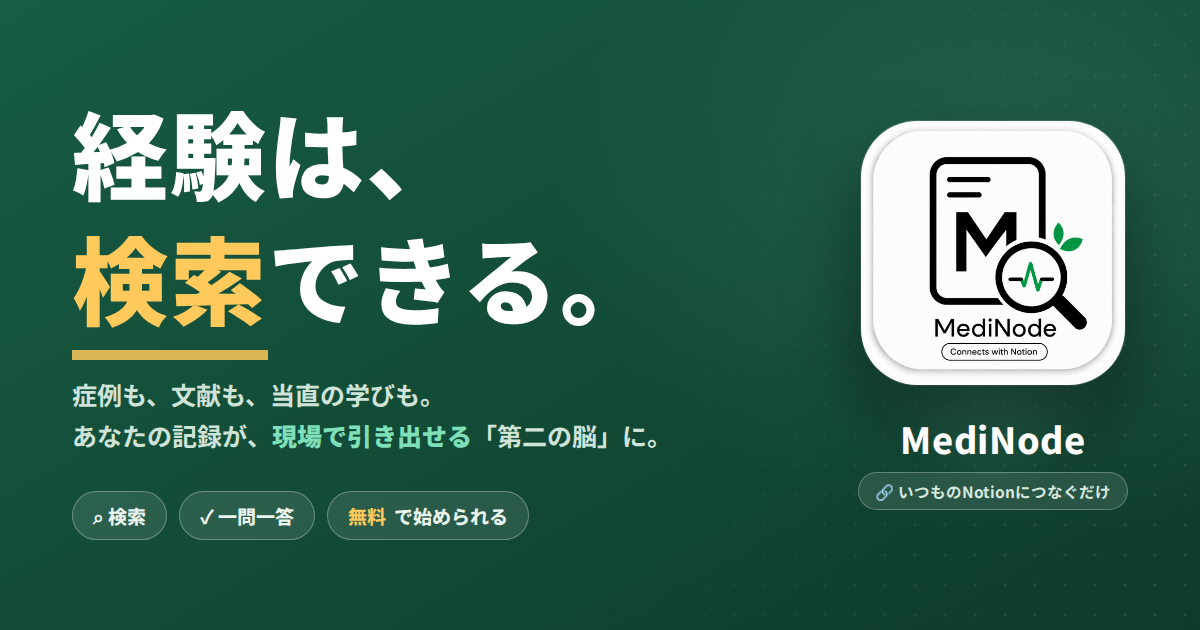
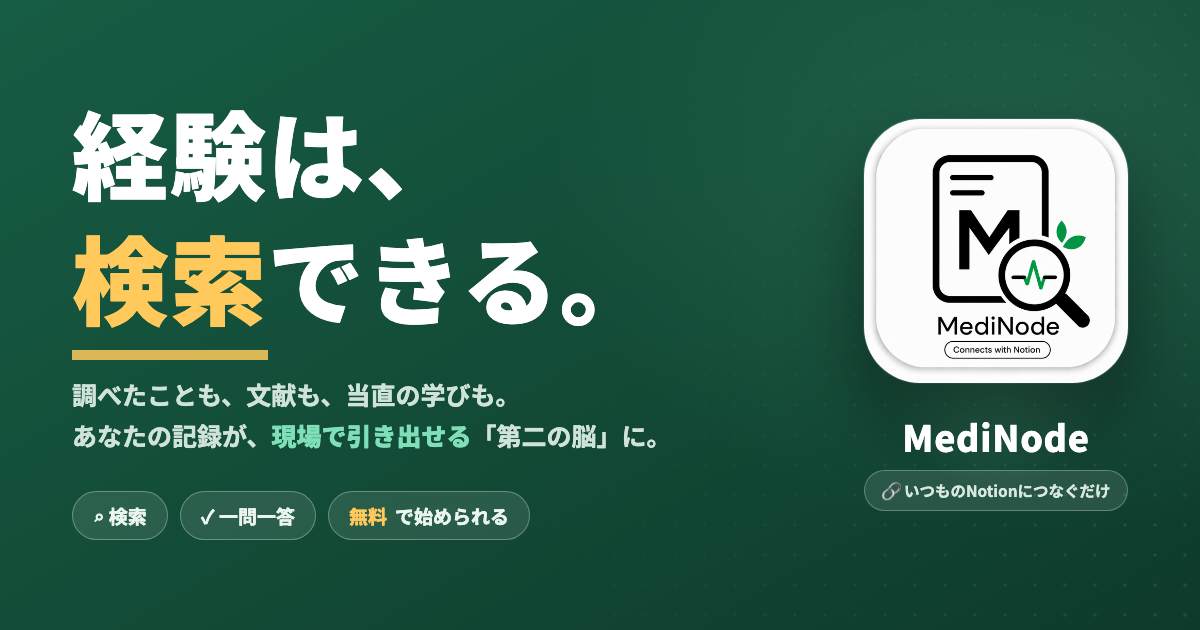
copy: 「症例も」→「調べたことも」に修正（症例記録そのものは検索対象でないため）
- index: meta/og/twitter説明・ヒーローリード・最終CTA帯・連携図を修正
- ogp.html のサブコピーを修正し assets/ogp.png を再生成
- 全ページの og:image/twitter:image を ?v=3 に更新（Xカードキャッシュ更新）

diff --git a/index.html b/index.html
@@ -4,22 +4,22 @@
 <meta charset="UTF-8">
 <meta name="viewport" content="width=device-width, initial-scale=1.0">
 <title>MediNode｜経験は、検索できる。</title>
-<meta name="description" content="症例も、文献も、当直の学びも。Notionに書いたあなたの記録が、現場で引き出せる「第二の脳」に。医療者のための知識検索アプリMediNode。検索と一問一答クイズ、無料ではじめられます。">
+<meta name="description" content="調べたことも、文献も、当直の学びも。Notionに書いたあなたの記録が、現場で引き出せる「第二の脳」に。医療者のための知識検索アプリMediNode。検索と一問一答クイズ、無料ではじめられます。">
 <meta name="theme-color" content="#196b4f">
 <link rel="icon" href="assets/icon-192.png">
 <link rel="apple-touch-icon" href="assets/icon-192.png">
 <meta property="og:type" content="website">
 <meta property="og:site_name" content="MediNode">
 <meta property="og:title" content="MediNode｜経験は、検索できる。">
-<meta property="og:description" content="症例も、文献も、当直の学びも。あなたの記録が、現場で引き出せる「第二の脳」に。医療者のための知識検索アプリ。">
-<meta property="og:image" content="https://medinode-lp.vercel.app/assets/ogp.png?v=2">
+<meta property="og:description" content="調べたことも、文献も、当直の学びも。あなたの記録が、現場で引き出せる「第二の脳」に。医療者のための知識検索アプリ。">
+<meta property="og:image" content="https://medinode-lp.vercel.app/assets/ogp.png?v=3">
 <meta property="og:image:width" content="1200">
 <meta property="og:image:height" content="630">
 <meta property="og:url" content="https://medinode-lp.vercel.app/">
 <meta name="twitter:card" content="summary_large_image">
 <meta name="twitter:title" content="MediNode｜経験は、検索できる。">
-<meta name="twitter:description" content="症例も、文献も、当直の学びも。あなたの記録が、現場で引き出せる「第二の脳」に。医療者のための知識検索アプリ。">
-<meta name="twitter:image" content="https://medinode-lp.vercel.app/assets/ogp.png?v=2">
+<meta name="twitter:description" content="調べたことも、文献も、当直の学びも。あなたの記録が、現場で引き出せる「第二の脳」に。医療者のための知識検索アプリ。">
+<meta name="twitter:image" content="https://medinode-lp.vercel.app/assets/ogp.png?v=3">
 <link rel="preconnect" href="https://fonts.googleapis.com">
 <link rel="preconnect" href="https://fonts.gstatic.com" crossorigin>
 <link href="https://fonts.googleapis.com/css2?family=Inter:wght@400;500;600;700;800&family=Noto+Sans+JP:wght@400;500;700;800&display=swap" rel="stylesheet">
@@ -505,7 +505,7 @@
     <div>
       <span class="eyebrow"><svg class="icn"><use href="#i-steth"/></svg><span>医療者のための知識アプリ・公開中</span></span>
       <h1>経験は、<br><span class="hl">検索</span>できる。</h1>
-      <p class="lead">症例も、文献も、当直の学びも。いつものNotionに書いたあなたの記録が、<b>現場で引き出せる</b><span class="nobr">「第二の脳」</span>に変わります。入力し直す手間はありません。</p>
+      <p class="lead">調べたことも、文献も、当直の学びも。いつものNotionに書いたあなたの記録が、<b>現場で引き出せる</b><span class="nobr">「第二の脳」</span>に変わります。入力し直す手間はありません。</p>
       <div class="hero-actions">
         <a class="btn btn-primary btn-arrow" href="https://medical-search-public.vercel.app/" target="_blank" rel="noopener">今すぐ体験する（無料）</a>
         <a class="btn btn-ghost" href="setup.html">自分のNotionをつなぐ</a>
@@ -617,7 +617,7 @@
       <div class="flow-step reveal"><div class="num">3</div><h3>そのままクイズに</h3><p>ためたナレッジが、シャッフル出題の一問一答に。集めた知識が、自分専用の問題集になります。</p></div>
     </div>
     <div class="sync reveal" aria-label="Notionに書くと、MediNodeに反映される流れ">
-      <div class="sync-node"><div class="tile t-green"><svg class="icn"><use href="#i-pen"/></svg></div><h4>いつものNotion</h4><p>症例・文献・メモを書く</p></div>
+      <div class="sync-node"><div class="tile t-green"><svg class="icn"><use href="#i-pen"/></svg></div><h4>いつものNotion</h4><p>調べたこと・文献・メモを書く</p></div>
       <div class="sync-pipe"><span class="pipe-label">繋ぐだけ</span></div>
       <div class="sync-node"><div class="tile t-teal"><svg class="icn"><use href="#i-search"/></svg></div><h4>MediNode</h4><p>検索・新着・クイズに変わる</p></div>
     </div>
@@ -930,7 +930,7 @@
 <section class="section cta-band" id="finalCta">
   <div class="wrap">
     <h2 class="reveal">経験は、<span style="color:#ffc95c">検索</span>できる。</h2>
-    <p class="reveal">症例も、文献も、当直の学びも。メールアドレスひとつで、まず3日間の体験からどうぞ。</p>
+    <p class="reveal">調べたことも、文献も、当直の学びも。メールアドレスひとつで、まず3日間の体験からどうぞ。</p>
     <a class="btn btn-primary btn-arrow reveal" href="https://medical-search-public.vercel.app/" target="_blank" rel="noopener">今すぐ体験する（無料）</a>
     <small class="reveal">医療者全般向け・スマホでもPCでも使えます</small>
   </div>

diff --git a/premium.html b/premium.html
@@ -10,14 +10,14 @@
 <meta property="og:site_name" content="MediNode">
 <meta property="og:title" content="プレミアム｜MediNode">
 <meta property="og:description" content="救急・集中治療の専門医がまとめた医療ナレッジを、自分のNotionと同じ画面で。専門医が『自分はこうする』まで書いた「集中治療医の実践」つき。">
-<meta property="og:image" content="https://medinode-lp.vercel.app/assets/ogp.png?v=2">
+<meta property="og:image" content="https://medinode-lp.vercel.app/assets/ogp.png?v=3">
 <meta property="og:image:width" content="1200">
 <meta property="og:image:height" content="630">
 <meta property="og:url" content="https://medinode-lp.vercel.app/premium.html">
 <meta name="twitter:card" content="summary_large_image">
 <meta name="twitter:title" content="プレミアム｜MediNode">
 <meta name="twitter:description" content="救急・集中治療の専門医がまとめた医療ナレッジを、自分のNotionと同じ画面で。専門医が『自分はこうする』まで書いた「集中治療医の実践」つき。">
-<meta name="twitter:image" content="https://medinode-lp.vercel.app/assets/ogp.png?v=2">
+<meta name="twitter:image" content="https://medinode-lp.vercel.app/assets/ogp.png?v=3">
 <link rel="icon" href="assets/icon-192.png">
 <link rel="apple-touch-icon" href="assets/icon-192.png">
 <link rel="preconnect" href="https://fonts.googleapis.com">

diff --git a/coming-soon.html b/coming-soon.html
@@ -12,14 +12,14 @@
 <meta property="og:site_name" content="MediNode">
 <meta property="og:title" content="MediNode｜公開しました">
 <meta property="og:description" content="普段のNotionが、そのまま検索DBと一問一答になる医療者向けアプリ。無料ではじめられます。">
-<meta property="og:image" content="https://medinode-lp.vercel.app/assets/ogp.png?v=2">
+<meta property="og:image" content="https://medinode-lp.vercel.app/assets/ogp.png?v=3">
 <meta property="og:image:width" content="1200">
 <meta property="og:image:height" content="630">
 <meta property="og:url" content="https://medinode-lp.vercel.app/coming-soon.html">
 <meta name="twitter:card" content="summary_large_image">
 <meta name="twitter:title" content="MediNode｜公開しました">
 <meta name="twitter:description" content="普段のNotionが、そのまま検索DBと一問一答になる医療者向けアプリ。無料ではじめられます。">
-<meta name="twitter:image" content="https://medinode-lp.vercel.app/assets/ogp.png?v=2">
+<meta name="twitter:image" content="https://medinode-lp.vercel.app/assets/ogp.png?v=3">
 <link rel="preconnect" href="https://fonts.googleapis.com">
 <link rel="preconnect" href="https://fonts.gstatic.com" crossorigin>
 <link href="https://fonts.googleapis.com/css2?family=Inter:wght@400;500;600;700;800&family=Noto+Sans+JP:wght@400;500;700;800&display=swap" rel="stylesheet">

diff --git a/notion.html b/notion.html
@@ -10,14 +10,14 @@
 <meta property="og:site_name" content="MediNode">
 <meta property="og:title" content="Notionの準備ガイド｜MediNode">
 <meta property="og:description" content="テンプレで始めるか、いまのNotion DBをそのまま繋ぐか。Notion側の準備だけを、初めての方向けに。">
-<meta property="og:image" content="https://medinode-lp.vercel.app/assets/ogp.png?v=2">
+<meta property="og:image" content="https://medinode-lp.vercel.app/assets/ogp.png?v=3">
 <meta property="og:image:width" content="1200">
 <meta property="og:image:height" content="630">
 <meta property="og:url" content="https://medinode-lp.vercel.app/notion.html">
 <meta name="twitter:card" content="summary_large_image">
 <meta name="twitter:title" content="Notionの準備ガイド｜MediNode">
 <meta name="twitter:description" content="テンプレで始めるか、いまのNotion DBをそのまま繋ぐか。Notion側の準備だけを、初めての方向けに。">
-<meta name="twitter:image" content="https://medinode-lp.vercel.app/assets/ogp.png?v=2">
+<meta name="twitter:image" content="https://medinode-lp.vercel.app/assets/ogp.png?v=3">
 <link rel="icon" href="assets/icon-192.png">
 <link rel="apple-touch-icon" href="assets/icon-192.png">
 <link rel="preconnect" href="https://fonts.googleapis.com">

diff --git a/setup.html b/setup.html
@@ -10,14 +10,14 @@
 <meta property="og:site_name" content="MediNode">
 <meta property="og:title" content="セットアップ手順｜MediNode">
 <meta property="og:description" content="Notionもトークンも、はじめてで大丈夫。実際の画面つきで、迷わず設定できます。">
-<meta property="og:image" content="https://medinode-lp.vercel.app/assets/ogp.png?v=2">
+<meta property="og:image" content="https://medinode-lp.vercel.app/assets/ogp.png?v=3">
 <meta property="og:image:width" content="1200">
 <meta property="og:image:height" content="630">
 <meta property="og:url" content="https://medinode-lp.vercel.app/setup.html">
 <meta name="twitter:card" content="summary_large_image">
 <meta name="twitter:title" content="セットアップ手順｜MediNode">
 <meta name="twitter:description" content="Notionもトークンも、はじめてで大丈夫。実際の画面つきで、迷わず設定できます。">
-<meta name="twitter:image" content="https://medinode-lp.vercel.app/assets/ogp.png?v=2">
+<meta name="twitter:image" content="https://medinode-lp.vercel.app/assets/ogp.png?v=3">
 <link rel="icon" href="assets/icon-192.png">
 <link rel="apple-touch-icon" href="assets/icon-192.png">
 <link rel="preconnect" href="https://fonts.googleapis.com">

diff --git a/database.html b/database.html
@@ -10,14 +10,14 @@
 <meta property="og:site_name" content="MediNode">
 <meta property="og:title" content="DB連携の仕組み｜MediNode">
 <meta property="og:description" content="2つのNotion DBが知識の土台。テンプレを複製して繋ぐだけ。">
-<meta property="og:image" content="https://medinode-lp.vercel.app/assets/ogp.png?v=2">
+<meta property="og:image" content="https://medinode-lp.vercel.app/assets/ogp.png?v=3">
 <meta property="og:image:width" content="1200">
 <meta property="og:image:height" content="630">
 <meta property="og:url" content="https://medinode-lp.vercel.app/database.html">
 <meta name="twitter:card" content="summary_large_image">
 <meta name="twitter:title" content="DB連携の仕組み｜MediNode">
 <meta name="twitter:description" content="2つのNotion DBが知識の土台。テンプレを複製して繋ぐだけ。">
-<meta name="twitter:image" content="https://medinode-lp.vercel.app/assets/ogp.png?v=2">
+<meta name="twitter:image" content="https://medinode-lp.vercel.app/assets/ogp.png?v=3">
 <link rel="icon" href="assets/icon-192.png">
 <link rel="apple-touch-icon" href="assets/icon-192.png">
 <link rel="preconnect" href="https://fonts.googleapis.com">

diff --git a/ogp.html b/ogp.html
@@ -42,7 +42,7 @@
   <div class="wrap">
     <div class="left">
       <h1>経験は、<br><span class="a">検索</span>できる。</h1>
-      <p class="sub">症例も、文献も、当直の学びも。<br>あなたの記録が、<b>現場で引き出せる</b>「第二の脳」に。</p>
+      <p class="sub">調べたことも、文献も、当直の学びも。<br>あなたの記録が、<b>現場で引き出せる</b>「第二の脳」に。</p>
       <div class="chips">
         <span class="chip">⌕ 検索</span><span class="chip">✓ 一問一答</span><span class="chip"><span class="a">無料</span>で始められる</span>
       </div>
